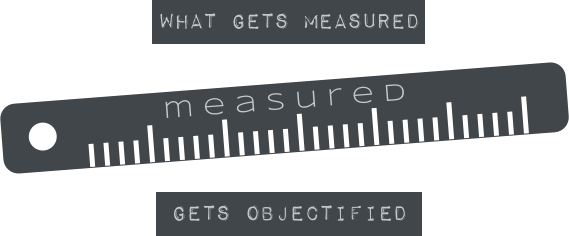
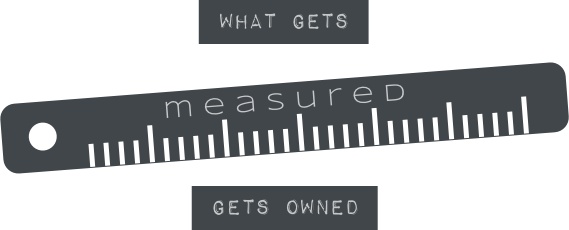
Update

diff --git a/index.html b/index.html
@@ -110,8 +110,9 @@
 							   <a href="#" style="display:none;"class="menu-item green"> <i class="fa fa-coffee"></i> </a>
 							   <a href="info-an.html" class="menu-item blue" data-toggle="modal" data-target="#info-an"> <i class="fa fa-info"></i> </a>
 							   <a href="#" class="menu-item green scroll-btn" onClick="$(this).siblings('input').click();"><i class="fa fa-eye"></i></a>
-							   <a href="#" class="menu-item orange" onClick="$(this).siblings('input').click();"> <i class="fa fa-paperclip"></i> </a>
-							   <a href="#" style="display:none;" class="menu-item lightblue"> <i class="fa fa-diamond"></i> </a>
+							   <!-- <a href="resources-an.html" class="menu-item orange" data-toggle="modal" data-target="#resources-an"> <i class="fa fa-paperclip"></i> </a> -->
+								 <a href="http://jonathancalzada.com/CV.pdf" target="_blank" class="menu-item orange"> <i class="fa fa-file-pdf-o"></i> </a>
+								 <a href="#" style="display:none;" class="menu-item lightblue"> <i class="fa fa-diamond"></i> </a>
 							</nav>
 							<nav id="menu-ux" class="menu-ux animate-box">
 							   <input id="menu-open-ux" type="checkbox" href="#" class="menu-open" name="menu-open" />
@@ -136,7 +137,8 @@
 							   <a href="#" style="display:none;"class="menu-item green"> <i class="fa fa-coffee"></i> </a>
 							   <a href="info-ph.html" class="menu-item blue" data-toggle="modal" data-target="#info-ph"> <i class="fa fa-info"></i> </a>
 							   <a href="#" class="menu-item green scroll-btn" onClick="$(this).siblings('input').click();"><i class="fa fa-eye"></i></a>
-							   <a href="#" class="menu-item orange"> <i class="fa fa-star"></i> </a>
+							   <!-- <a href="#" class="menu-item orange"> <i class="fa fa-star"></i> </a> -->
+								 <a href="http://jonathancalzada.com/Portfolio.pdf" target="_blank" class="menu-item orange"> <i class="fa fa-file-pdf-o"></i> </a>
 							   <a href="#" style="display:none;" class="menu-item lightblue"> <i class="fa fa-diamond"></i> </a>
 							</nav>
 							<nav id="menu-hx" class="menu-hx animate-box">
@@ -149,12 +151,18 @@
 							   <a href="#" style="display:none;"class="menu-item green"> <i class="fa fa-coffee"></i> </a>
 							   <a href="info-hx.html" class="menu-item blue" data-toggle="modal" data-target="#info-hx"> <i class="fa fa-info"></i> </a>
 							   <a href="#" class="menu-item green scroll-btn" onClick="$(this).siblings('input').click();"><i class="fa fa-eye"></i></a>
-							   <a href="#" class="menu-item orange"> <i class="fa fa-star"></i> </a>
+							   <!-- <a href="#" class="menu-item orange"> <i class="fa fa-star"></i> </a> -->
+								 <a href="http://jonathancalzada.com/Resume.pdf" target="_blank" class="menu-item orange"> <i class="fa fa-file-pdf-o"></i> </a>
 							   <a href="#" style="display:none;" class="menu-item lightblue"> <i class="fa fa-diamond"></i> </a>
 							</nav>
 
 							<div class="hero_quote"><q>The future needs the whole *man. </q><br />--László Moholy-Nagy</div>
 							<div id="navbutton-an-text" class="button_text"> #Anthropologist</div>
+							<div id="navbutton-an-info-text" class="button_text"> •Information</div>
+							<div id="navbutton-an-resources-text" class="button_text"> •CV</div>
+							<div id="navbutton-an-view-text" class="button_text"> #Anthropologist Portfolio</div>
+
+
 							<div id="navbutton-ux-text" class="button_text"> #UX Designer</div>
 							<div id="navbutton-ph-text" class="button_text"> #Photographer</div>
 							<div id="navbutton-hx-text" class="button_text"> #Haxor</div>
@@ -357,7 +365,7 @@
 				<div class="row text-center row-bottom-padded-md">
 					<div class="col-md-8 col-md-offset-2">
 						<figure class="jcboom-devices animate-box"><img src="images/my-quantified-self-header.png" alt="" class="img-responsive"></figure>
-						<h2 class="jcboom-lead animate-box">My Quantified Self</h2>
+						<h2 class="jcboom-lead animate-box">My Quantified Self</h2> <!---CHANGE IMAGE TO SAY "WHAT GETS MEASURED GETS OWNED"--->
 						<p class="jcboom-sub-lead animate-box">We are constantly being measured and quantified not only by others but also more critically by ourselves. By quantifying humanity one is tempted to objectify it and in Western culture most likely to turn it into property. Soccer players in Europe, for example, are quantified so that they can be easily turned into commodities.  Player attributes are calculated, summed and inputted through an algorithm of which results presume to give them value.  We have observed this process extended to human labor in digitized form through HCM software. To follow suit, I provide a snapshot of my quantified-self in this context so that I may be valued in the workforce and society in which I live (Corporate America).</p><br><br><br>
 						<figure class="jcboom-devices animate-box"><img src="images/my-quantified-self.png" alt="" class="img-responsive"></figure>
 						<p class="animate-box">*Inspired by the <a href="http://www.ethanzuckerman.com/blog/2010/09/09/media-tracking-and-the-quantified-self/" target="_blank">quantified-self</a> movement and <a href="http://sofifa.com" target="_blank">sofifa.com.</a></p>
@@ -696,6 +704,13 @@
 		}).mouseleave(function(){
 			$("#navbutton-an-text").hide();
 		})
+
+		$(".blue").mouseenter(function(){
+			$("#navbutton-an-info-text").show();
+		}).mouseleave(function(){
+			$("#navbutton-an-info-text").hide();
+		})
+
 		$("#navbutton-ux").mouseenter(function(){
 			$("#navbutton-ux-text").show();
 		}).mouseleave(function(){
@@ -771,6 +786,19 @@
 	$('#info-ux').on('click', function() {	$('#info-ux').modal('hide'); }); /// Closes modal when clicking anywhere in it.
 	$('#info-ph').on('click', function() {	$('#info-ph').modal('hide'); }); /// Closes modal when clicking anywhere in it.
 	$('#info-hx').on('click', function() {	$('#info-hx').modal('hide'); }); /// Closes modal when clicking anywhere in it.
+
+	$('#resources-an').on('hidden.bs.modal', function () {	  $("#hero-container").toggle(true); $("#jcboom-hero").removeClass("jcboom-page-blur");	})
+	$('#resources-an').on('show.bs.modal', function () {		$("#hero-container").toggle(false); $("#jcboom-hero").addClass("jcboom-page-blur");	})
+	$('#resources-ux').on('hidden.bs.modal', function () {	  $("#hero-container").toggle(true); $("#jcboom-hero").removeClass("jcboom-page-blur");	})
+	$('#resources-ux').on('show.bs.modal', function () {		$("#hero-container").toggle(false);	$("#jcboom-hero").addClass("jcboom-page-blur") ;})
+	$('#resources-ph').on('hidden.bs.modal', function () {	  $("#hero-container").toggle(true); $("#jcboom-hero").removeClass("jcboom-page-blur");	})
+	$('#resources-ph').on('show.bs.modal', function () {		$("#hero-container").toggle(false);	$("#jcboom-hero").addClass("jcboom-page-blur"); })
+	$('#resources-hx').on('hidden.bs.modal', function () {	  $("#hero-container").toggle(true); $("#jcboom-hero").removeClass("jcboom-page-blur");	})
+	$('#resources-hx').on('show.bs.modal', function () {		$("#hero-container").toggle(false); $("#jcboom-hero").addClass("jcboom-page-blur");	})
+	$('#resources-an').on('click', function() {	$('#resources-an').modal('hide'); }); /// Closes modal when clicking anywhere in it.
+	$('#resources-ux').on('click', function() {	$('#resources-ux').modal('hide'); }); /// Closes modal when clicking anywhere in it.
+	$('#resources-ph').on('click', function() {	$('#resources-ph').modal('hide'); }); /// Closes modal when clicking anywhere in it.
+	$('#resources-hx').on('click', function() {	$('#resources-hx').modal('hide'); }); /// Closes modal when clicking anywhere in it.
 
 	/* Nav Button Locations (http://easings.net/) */
 	$("#menu-open-an").click(function(){
@@ -962,6 +990,12 @@
 <div class="hero-modal modal fade" id="info-ux" tabindex="-1" role="dialog" aria-hidden="true"><div class="modal-content"></div></div>
 <div class="hero-modal modal fade" id="info-ph" tabindex="-1" role="dialog" aria-hidden="true"><div class="modal-content"></div></div>
 <div class="hero-modal modal fade" id="info-hx" tabindex="-1" role="dialog" aria-hidden="true"><div class="modal-content"></div></div>
+
+<div class="hero-modal modal fade" id="resources-an" tabindex="-1" role="dialog" aria-hidden="true"><div class="modal-content"></div></div>
+<div class="hero-modal modal fade" id="resources-ux" tabindex="-1" role="dialog" aria-hidden="true"><div class="modal-content"></div></div>
+<div class="hero-modal modal fade" id="resources-ph" tabindex="-1" role="dialog" aria-hidden="true"><div class="modal-content"></div></div>
+<div class="hero-modal modal fade" id="resources-hx" tabindex="-1" role="dialog" aria-hidden="true"><div class="modal-content"></div></div>
+
 
 <!-- End Modals -->
 	</body>

diff --git a/resources-an.html b/resources-an.html
@@ -1,0 +1,41 @@
+<!-- Close Button -->
+<!-- <section>
+  <div class="close-modal" data-dismiss="">
+      <div class="lr">
+          <div class="rl">
+          </div>
+      </div>
+  </div>
+</section> -->
+
+<!-- Body -->
+<section id="info-body">
+  <div class="info-title">Philosophia &#x25cf; Anthropology &#x25cf; praxis</div>
+  <div class="info-text">
+    As a User Experience practitioner, I am critical of the human-centered design philosophy as I push to broaden its scope and encompass key human aspects such as agency, intersectionality, identity and equity. I am aware that technology is socially constructed, which is to say that there is inherent culture nestled in the code of every software application. I seek to break the myth of autonomous technology through practice and education. My interdisciplinary background provides me with the tools to help design meaningful experiences.
+  </div>
+  <div class="info-menu">
+    <div class="info-menu-buttons"><a href="#" class="info-menu-button-resources orange"> <i class="fa fa-times"></i> </a></div>
+    <div class="info-menu-buttons"><a href="#" class="info-menu-button-view green"  onClick="$('#menu-open-an').click();"><i class="fa fa-eye"></i></a></div>
+    <div class="info-menu-buttons"><a href="#" class="info-menu-button-info blue"><i class="fa fa-info"></i></a></div>
+  </div>
+</section>
+
+<script>
+/*******************************************************************************
+* Author: Jonathan Calzada
+* Purpose: Menu modal buttons
+* Date: 7/10/2017
+*******************************************************************************/
+$(document).ready(function(){
+  $('.info-menu-button-view').click(function(){
+    $(document.body).animate({
+      'scrollTop':   $('#jcboom-projects').offset().top
+    }, 1000);
+  });
+ });
+</script>
+<!-- Footer -->
+<!-- <section id="footer">
+  <div style="width:100%;"><button type="button" class="btn btn-default button-ux" data-dismiss="modal"><i class="fa fa-times"></i> Close</button></div>
+</section> -->

diff --git a/css/freelancer.css b/css/freelancer.css
@@ -77,6 +77,10 @@ hr.star-primary:after {
   /*border: 0px solid rgba(90, 10, 161, 0);*/
   /*border: 0px solid rgba(0, 255, 0, 0.1);*/
 }
+#resources-an .modal-content {
+  background-color: rgba(252, 145, 58, .7);
+  color: #FFDFBE;
+}
 #info-an .modal-content {
   background-color: rgba(139, 124, 109, 0.2);
   color: #FFDFBE;

diff --git a/css/style.css b/css/style.css
@@ -413,7 +413,10 @@ input:checked + .slider::before {
 #navbutton-an-text,
 #navbutton-ux-text,
 #navbutton-ph-text,
-#navbutton-hx-text {
+#navbutton-hx-text,
+#navbutton-an-info-text,
+#navbutton-an-resources-text,
+#navbutton-an-view-text {
   display: none;
   position:absolute;
   text-align:left;
